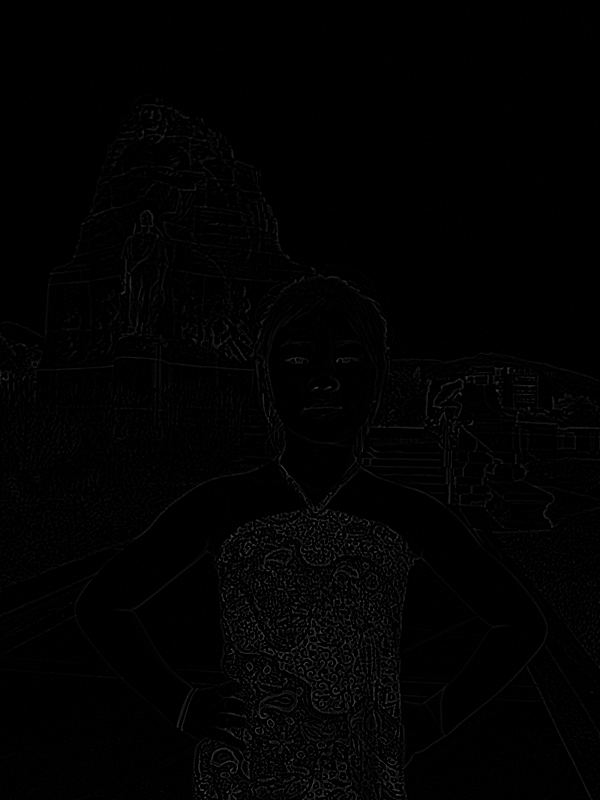
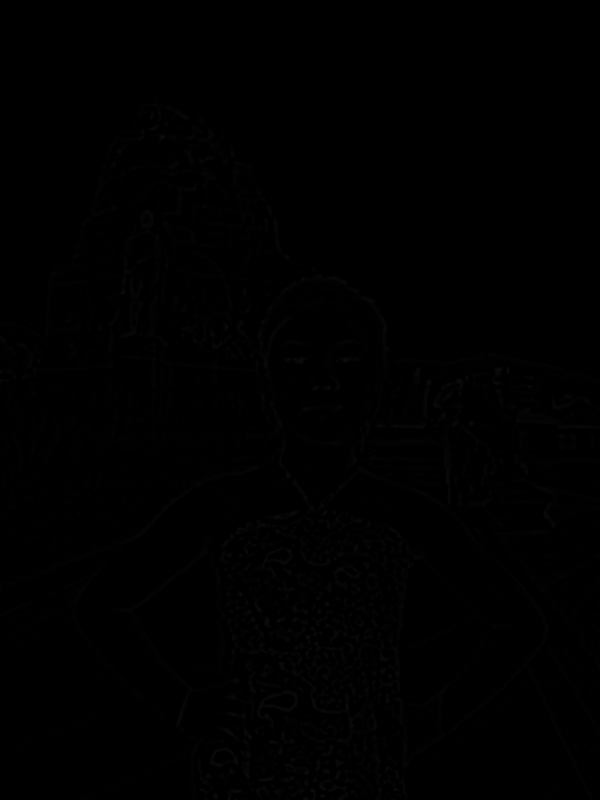
1-5 (GS_gaussian_smoothing_filtering, sigma=2)

diff --git a/OpenCV_4/15.cpp b/OpenCV_4/15.cpp
@@ -10,7 +10,7 @@ Mat getLaplacianOfGaussian(const Mat& image)
 	CEdge ce;
 	CFilter cf;
 
-	Mat gaussian = cf.GS_blurring(image, CV_GAUSSIAN, 0);
+	Mat gaussian = cf.GS_gaussian_smoothing_filtering(image, 2);
 
 	Mat laplacian = ce.GS_laplacian_edge_Laplacian(gaussian);
 
